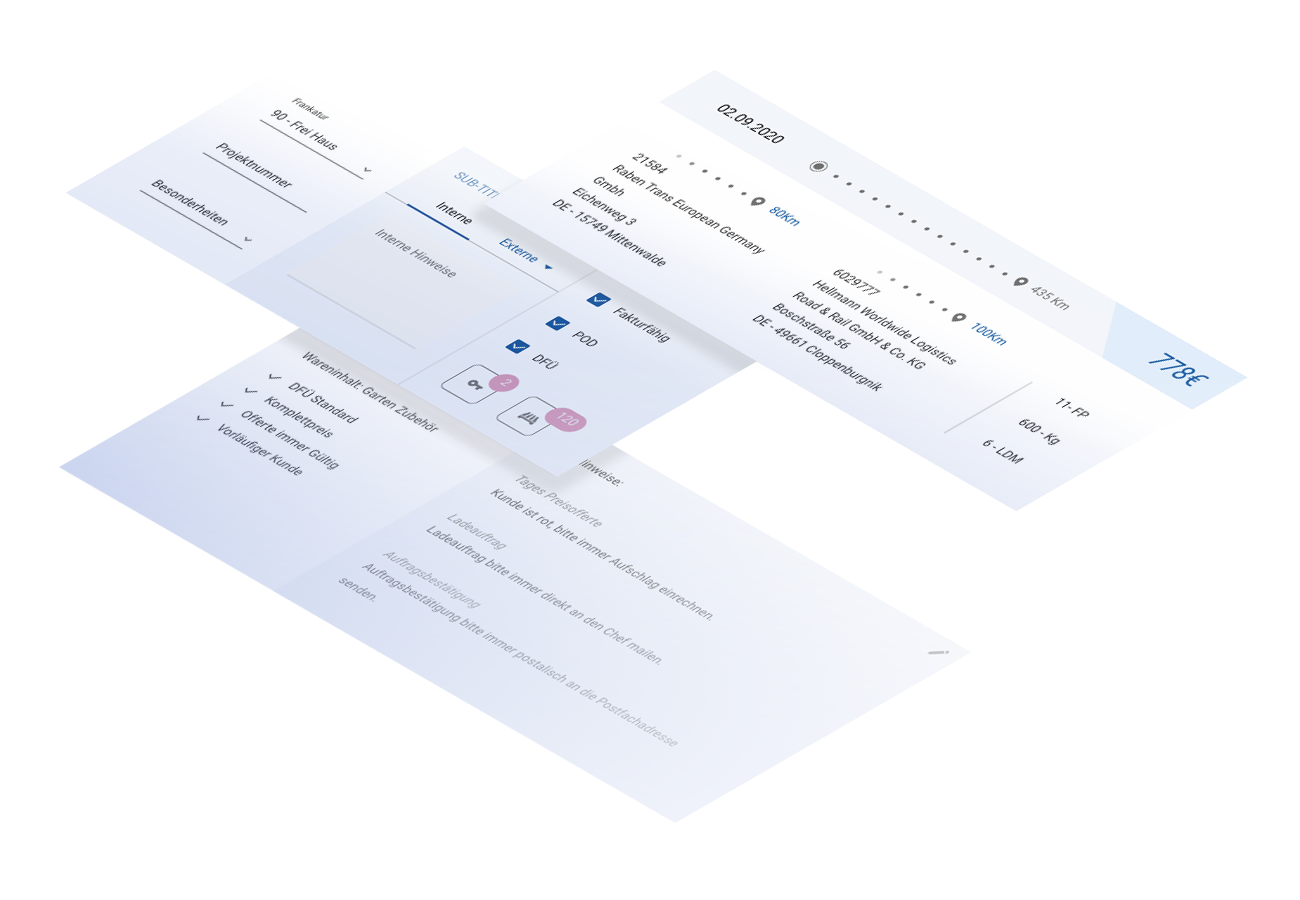
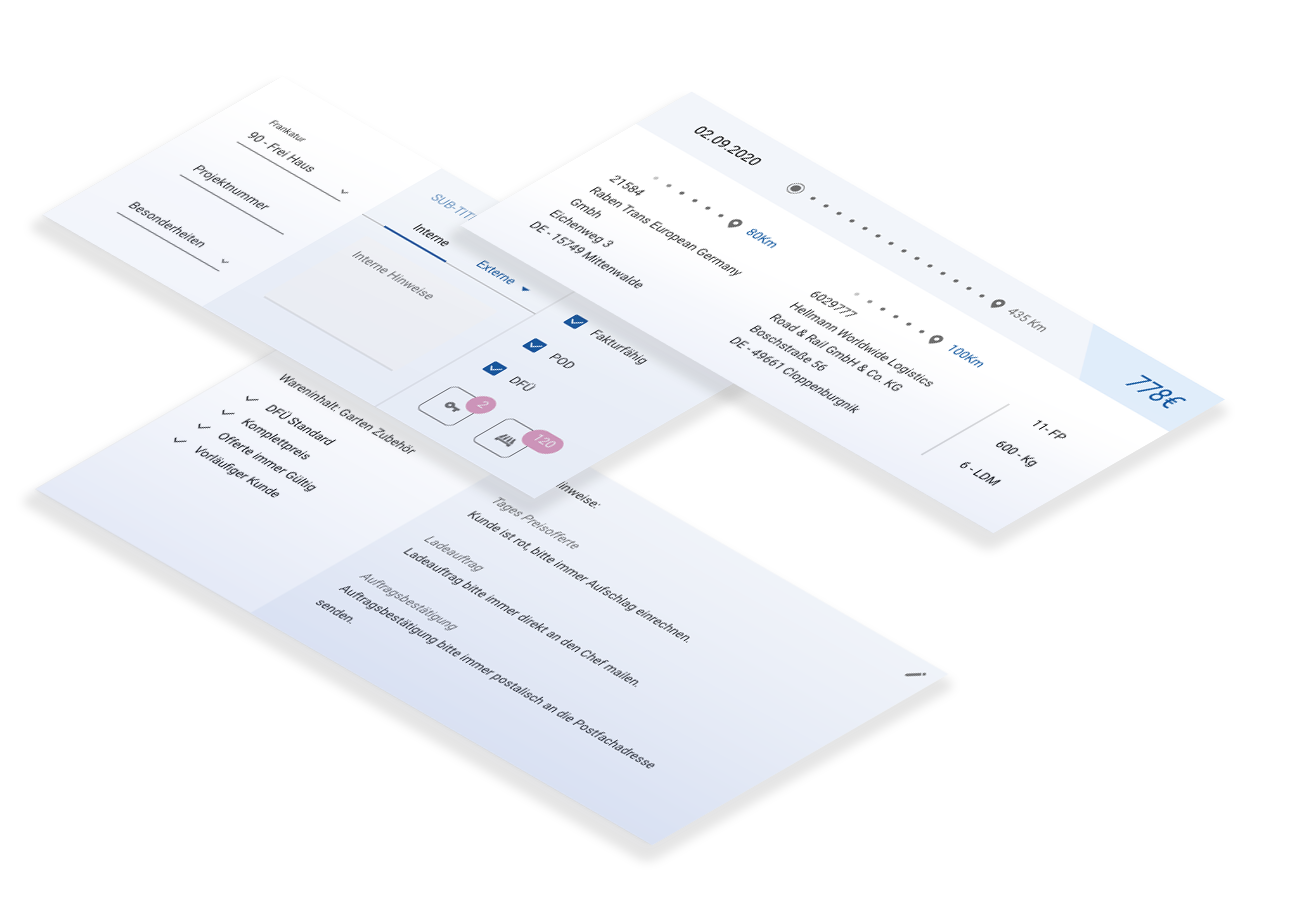
hellmann outcommented

diff --git a/index.html b/index.html
@@ -172,7 +172,7 @@
 		<!-- END SECTION: Web Design -->
 
 		<!-- SECTION: Web Design -->
-		<section id="work" class="web-design left hellmann">
+		<!-- <section id="work" class="web-design left hellmann">
 			<div class="web-design__wrapper wrapper--small">
 				<div class="web-design__content blurb">
 					<h2 class="blurb__heading">Hellmann TMS</h2>
@@ -190,31 +190,27 @@
 				<div class="project-copy-container">
 					<div class="project-copy">
 						<p>
-							Hellman's Transport Management System is the core Logistics Application that will be intensively used by more than 3000 employees on a daily basis.
+							Hellman's Transport Management System is the core Logistics Application that more than 3000 employees will intensively use on a daily basis.
 						</p>
 						<p>
-							As a UX designer it is a great responsibility as it will effectivelly manifest
+							A good UX/UI design is crucial.
 						</p>
 						<p>
-							It is undoubtedly a challenging, but also a gratifying process.
+							Working on error prevention, error recovery, flexibility or efficiency of use adds great value to the application.
 						</p>
 					</div>
 					<div class="project-copy">
 						<p>
-							Automat.li is one of these complex applications.
-							I have been responsible not only for the User Experience
-							but also for the UI design and Front-End development.
+							 Think about it: 3000 minds working really fast, simultaneously planning, scheduling, and shipping goods. Any improvement has the potential to multiply their output.
 						</p>
 						<p>
-							You can
-							<a href="https://automat.li/" target="_blank" rel="noopener">check automat.li out</a>
-							and register if you want to try the app.
+							It also gave me the chance to act as a bridge between the different Stakeholders and the user, being an advocate for user-centered design.
 						</p>
 					</div>
 				</div>
-				<img src="./assets/img/automatli/auto-project.png" alt="automatli screenshot">
+				<img src="./assets/img/hellmann/project hellmann.png" alt="automatli screenshot">
 			</div>
-		</section>
+		</section> -->
 		<!-- END SECTION: Web Design -->
 
 		<!-- SECTION: Web Design -->

diff --git a/assets/css/main.css b/assets/css/main.css
@@ -1361,12 +1361,12 @@ summary {
   top: 150px;
   z-index: 1;
   left: -205px;
-  background-image: linear-gradient(to left, #fcecd3, #dbe7fb);
+  background-image: linear-gradient(to right, #dbe7fb, #d2cfca, #fbf8db);
 }
 .web-design.hellmann .web-design__visual img {
   position: absolute;
-  top: 84px;
-  left: -123px;
+  top: 188px;
+  left: -59px;
   width: 120%;
   z-index: 3;
   filter: drop-shadow(2px 24px 8px rgba(0, 0, 0, 0.1));

diff --git a/assets/css/4-pages/_home.sass b/assets/css/4-pages/_home.sass
@@ -632,11 +632,11 @@ summary
 			top: 150px
 			z-index: 1
 			left: -205px
-			background-image: linear-gradient(to left, #fcecd3, #dbe7fb)
+			background-image: linear-gradient(to right, #dbe7fb, #d2cfca, #fbf8db)
 		img
 			position: absolute
-			top: 84px
-			left: -123px
+			top: 188px
+			left: -59px
 			width: 120%
 			z-index: 3
 			filter: drop-shadow(2px 24px 8px rgba(0, 0, 0, 0.1))
